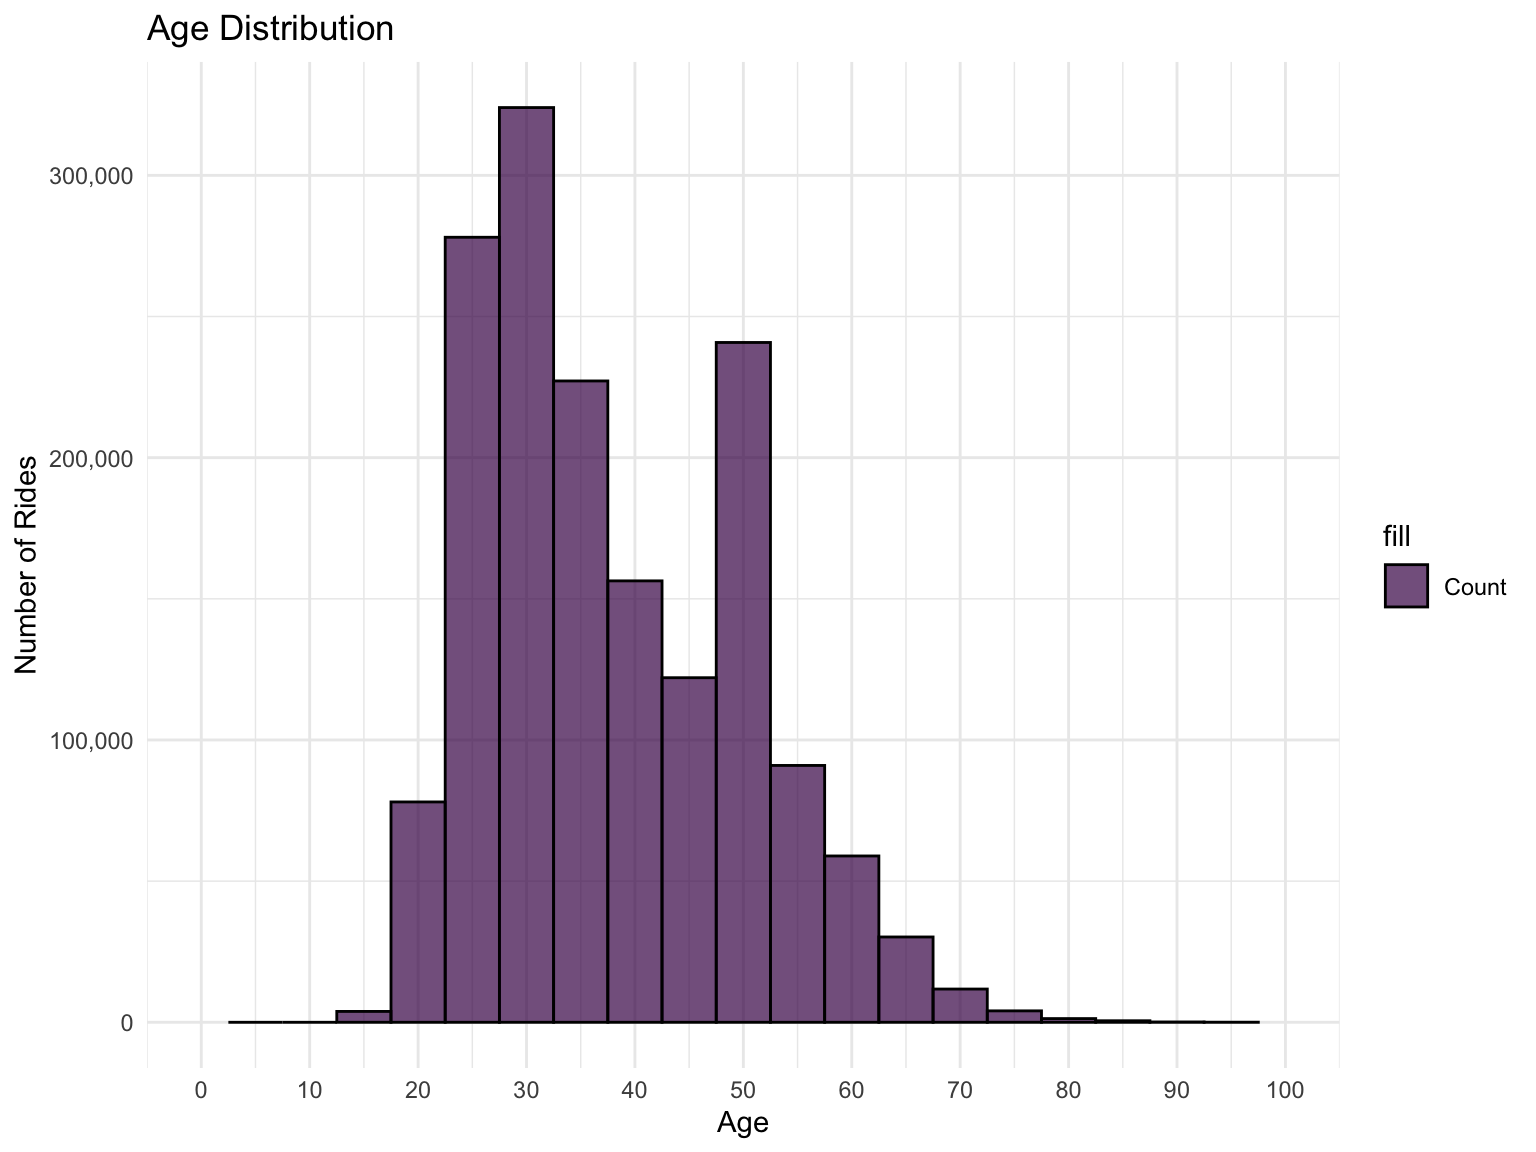
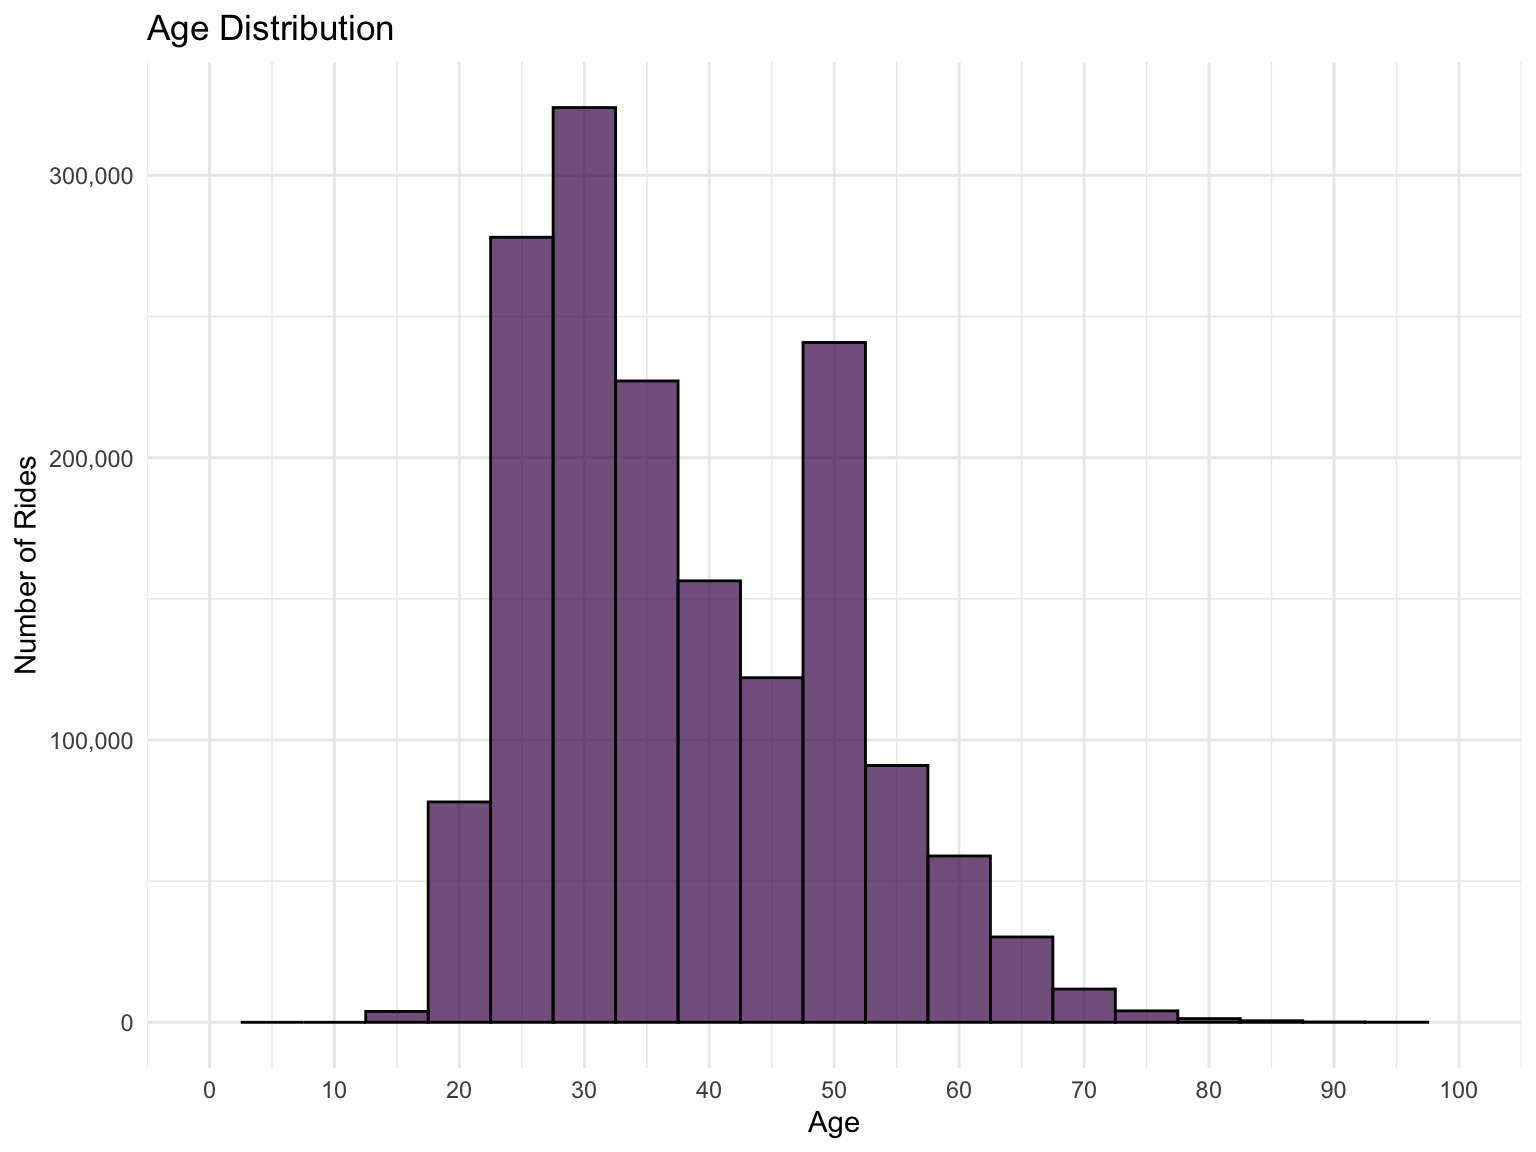
analysis edits

diff --git a/analysis.html b/analysis.html
@@ -409,6 +409,8 @@ charts and graphs.</p>
 <pre class="r"><code>citibike_df &lt;- read.csv(&quot;./data/geocoding/citibike_zip_neighborhoods.csv&quot;)
 &gt;&gt;&gt;&gt;&gt;&gt;&gt; refs/remotes/origin/main</code></pre>
 <pre class="r"><code>citibike_df &lt;- read.csv(&quot;/Users/Haley/Desktop/citibike_df.csv&quot;)</code></pre>
+<p> </p>
+<hr />
 <p>This table shows the number of stations per neighborhood used in
 September.</p>
 <pre class="r"><code>station &lt;- citibike_df %&gt;%
@@ -616,13 +618,16 @@ rides!</p>
 <p>This graph shows the distribution of ages: 30 year olds and 50 year
 olds use citibike the most!</p>
 <pre class="r"><code>ggplot(citibike_df, aes(x = age, fill = &quot;Count&quot;)) +
-  geom_histogram(binwidth = 5, alpha = 0.7, color = &quot;black&quot;,) +
+  geom_histogram(binwidth = 5, alpha = 0.7, color = &quot;black&quot;) +
   scale_x_continuous(limits = c(0, 100), breaks = seq(0, 100, by = 10)) +
   scale_y_continuous(labels = scales::comma_format()) +
   labs(x = &quot;Age&quot;, y = &quot;Number of Rides&quot;, title = &quot;Age Distribution&quot;) +
   scale_fill_viridis(discrete = TRUE) +
-  theme_minimal()</code></pre>
+  theme_minimal() +
+  guides(fill = FALSE)</code></pre>
 <p><img src="analysis_files/figure-html/age%20distribution-1.png" width="90%" /></p>
+<p> </p>
+<hr />
 </div>
 </div>
 <div id="exploring-subsets" class="section level1">
